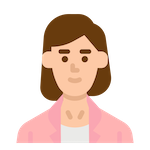
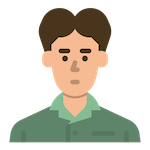
updated

diff --git a/single-mom/index.html b/single-mom/index.html
@@ -26,7 +26,7 @@
 <link href="vendor/magnific-popup/magnific-popup.css" rel="stylesheet">
 
 <!-- Theme CSS - Includes Bootstrap -->
-<link href="css/creative.min.css" rel="stylesheet">
+<link href="css/vitastory.min.css" rel="stylesheet">
 
 <!-- GA -->
 <!-- Global site tag (gtag.js) - Google Analytics -->
@@ -107,6 +107,7 @@
     <div class="row justify-content-center" id="q1">
       <div class="col-lg-8">
         <h3 class="mb-4">Q1：台灣單親家庭的平均月收入是多少？</h3>
+		<p>請點選下面你認為最合適的選項：</p>
         <div class="content list-group" id="list-tab" role="tablist" style="flex-direction:row;">
           <button class="list-group-item list-group-item-action choice" data-toggle="list" href="#ans-1-a" role="tab" aria-controls="home">未滿1萬9,047元</button>
           <button class="list-group-item list-group-item-action choice" data-toggle="list" href="#ans-1-b" role="tab" aria-controls="profile">1萬9,047 元～未滿 3 萬元</button>
@@ -119,7 +120,7 @@
       <div class="col-lg-8">
         <div class="tab-content" id="nav-tabContent">
           <div class="tab-pane fade show active">
-            <p>你選擇的答案是？（請點選上面你認為最合適的答案）</p>
+            <p>  </p>
           </div>
           <div class="tab-pane fade" id="ans-1-a" role="tabpanel" aria-labelledby="ans-1-a">
             <p>你答錯了！根據<a href="https://www.children.org.tw/uploads/images/private/23/files/report_2013_vulneralble_single_families.pdf" target="_blank">兒童福利聯盟統計</a>台灣的單親家庭平均月收入比例大部分落在1萬9,047至3萬元之間。</p>
@@ -155,6 +156,7 @@
     <div class="row justify-content-center" id="q2">
       <div class="col-lg-8">
         <h3 class="mb-4">Q2：你知道單親媽媽在面對收入壓力的同時，找工作時會碰到什麼難題嗎？</h3>
+		 <p>請點選下面你認為最合適的選項：</p>
         <div class="content list-group" id="list-tab-2" role="tablist" style="flex-direction:row;">
           <button class="list-group-item list-group-item-action choice" data-toggle="list" href="#ans-2-a" role="tab" aria-controls="home">高齡／已婚身分導致不錄用</button>
           <button class="list-group-item list-group-item-action choice" data-toggle="list" href="#ans-2-a" role="tab" aria-controls="profile">生育過後重返職場遭上司拒絕</button>
@@ -167,7 +169,7 @@
       <div class="col-lg-8">
         <div class="tab-content" id="nav-tabContent-2">
           <div class="tab-pane fade show active">
-            <p>你選擇的答案是？（請點選上面你認為最合適的答案）</p>
+            <p>  </p>
           </div>
           <div class="tab-pane fade" id="ans-2-a" role="tabpanel" aria-labelledby="ans-2-a">
             <p>答錯囉！上述三個選項的問題都是現今單親家長在職場經常碰到的難題。</p>
@@ -193,6 +195,7 @@
     <div class="row justify-content-center" id="q3">
       <div class="col-lg-8">
         <h3 class="mb-4">Q3：你知道單親家庭的生活品質、居住狀況是如何嗎？</h3>
+		 <p>請點選下面你認為最合適的選項：</p>
         <div class="content list-group" id="list-tab-3" role="tablist" style="flex-direction:row;">
           <button class="list-group-item list-group-item-action choice" data-toggle="list" href="#ans-3-a" role="tab" aria-controls="home">頂樓加蓋</button>
           <button class="list-group-item list-group-item-action choice" data-toggle="list" href="#ans-3-a" role="tab" aria-controls="profile">違章建築</button>
@@ -205,7 +208,7 @@
       <div class="col-lg-8">
         <div class="tab-content" id="nav-tabContent-3">
           <div class="tab-pane fade show active">
-            <p>你選擇的答案是？（請點選上面你認為最合適的答案）</p>
+            <p>  </p>
           </div>
           <div class="tab-pane fade" id="ans-3-a" role="tabpanel" aria-labelledby="ans-3-a">
             <p>答錯了！就目前我們訪談到的個案來說，單親家庭在居住方面投注較多心力，有的單親媽媽在離婚之後選擇回到娘家居住，有的媽媽則是選擇在外租房，為了給孩子較好的成長環境，單親爸爸或媽媽們尤其注重社區安全與環境機能，多半不會離校區太遠，同時希望讓孩子在舒適的環境成長，頂樓加蓋與違章建築較不會列入考慮，雖然租金稍微高了一點，但若能在可負荷的範圍，也要讓孩子有個安穩的家可以回。</p>
@@ -219,6 +222,7 @@
     <div class="row justify-content-center" id="q5">
       <div class="col-lg-8">
         <h3 class="mb-4">Q4：單親媽媽／爸爸會碰上甚麼育兒困難？</h3>
+		 <p>請點選下面你認為最合適的選項：</p>
         <div class="content list-group" id="list-tab-5" role="tablist" style="flex-direction:row;">
           <button class="list-group-item list-group-item-action choice" data-toggle="list" href="#ans-5-a" role="tab" aria-controls="home">一個人須同時擔任「父親」與「母親」角色</button>
           <button class="list-group-item list-group-item-action choice" data-toggle="list" href="#ans-5-a" role="tab" aria-controls="profile">工作時間太長，親子關係疏遠</button>
@@ -231,7 +235,7 @@
       <div class="col-lg-8">
         <div class="tab-content" id="nav-tabContent-5">
           <div class="tab-pane fade show active">
-            <p>你選擇的答案是？（請點選上面你認為最合適的答案）</p>
+            <p>  </p>
           </div>
           <div class="tab-pane fade" id="ans-5-a" role="tabpanel" aria-labelledby="ans-5-a">
             <p>再仔細看看，單親媽媽或爸爸同時會面臨不同困難喔！</p>
@@ -245,6 +249,7 @@
     <div class="row justify-content-center" id="q6">
       <div class="col-lg-8">
         <h3 class="mb-4">Q5：單親婦女會在生活上承受了什麼生活壓力？</h3>
+		<p>請點選下面你認為最合適的選項：</p>
         <div class="content list-group" id="list-tab-6" role="tablist" style="flex-direction:row;">
           <button class="list-group-item list-group-item-action choice" data-toggle="list" href="#ans-6-a" role="tab" aria-controls="home">中國婦女三從四德的社會文化觀</button>
           <button class="list-group-item list-group-item-action choice" data-toggle="list" href="#ans-6-a" role="tab" aria-controls="profile">教養子女方式</button>
@@ -257,7 +262,7 @@
       <div class="col-lg-8">
         <div class="tab-content" id="nav-tabContent-6">
           <div class="tab-pane fade show active">
-            <p>你選擇的答案是？（請點選上面你認為最合適的答案）</p>
+            <p>  </p>
           </div>
           <div class="tab-pane fade" id="ans-6-a" role="tabpanel" aria-labelledby="ans-6-a">
             <p>答對囉！其實上述四個選項都是現今生活裡發生在你我周遭的事件，有些甚至也是我們潛意識裡會有的刻板印象。</p>
@@ -281,6 +286,7 @@
     <div class="row justify-content-center" id="q7">
       <div class="col-lg-8">
         <h3 class="mb-4">Q6：單親的身分在社會上會遭受到什麼不友善的對待？</h3>
+		 <p>請點選下面你認為最合適的選項：</p>
         <div class="content list-group" id="list-tab-7" role="tablist" style="flex-direction:row;">
           <button class="list-group-item list-group-item-action choice" data-toggle="list" href="#ans-7-a" role="tab" aria-controls="home">單親爸爸尋求基金會協助被視為很軟弱</button>
           <button class="list-group-item list-group-item-action choice" data-toggle="list" href="#ans-7-a" role="tab" aria-controls="profile">身分證因沒有爸爸名字被認為有人格缺陷</button>
@@ -293,13 +299,13 @@
       <div class="col-lg-8">
         <div class="tab-content" id="nav-tabContent-7">
           <div class="tab-pane fade show active">
-            <p>你選擇的答案是？（請點選上面你認為最合適的答案）</p>
+            <p>  </p>
           </div>
           <div class="tab-pane fade" id="ans-7-a" role="tabpanel" aria-labelledby="ans-7-a">
             <p>不止這個答案喔！三個選項各有真實的小故事，往下看看吧！</p>
             <p><strong>單親爸爸尋求基金會協助被視為軟弱的行為</strong></p>
             <p>據<a href="https://www.children.org.tw/uploads/images/private/23/files/report_2013_vulneralble_single_families.pdf" target="_blank">兒童福利聯盟</a>，單親爸爸單親媽媽求助比例約為1：6，由此可知單親爸爸向外尋求或使用社會福利資源協助的意願與動機明顯低於單親媽媽。阿貴爸爸為了獨立照顧兩個孩子，前往兒福聯盟承接的向晴家庭福利服務中心尋求幫助，</p>
-            <p>阿貴爸爸說：「不能因為男人性別的關係，而不願請社工協助，為了孩子我們不僅要努力賺錢，也要爭取相關的福利幫忙。」</p>
+            <p>阿沛爸爸與妻子離婚後，負起了獨自照顧女兒的責任。在經濟和與女兒相處不融洽的雙重壓力下，阿沛爸爸最終被憂鬱擊垮，患上了輕度憂鬱症。身邊的親人都很擔心他，並提供一些可以幫助他的社福管道，但阿沛爸爸卻認為自己是個男人，不該懦弱地向外求援，所以不願請社工協助自己。</p>
             <p><strong>為什麼你的身分證沒有爸爸的名字？</strong></p>
             <p>臉專「<a href="https://www.facebook.com/mimiandmom?fref=photo" target="_blank">單親媽媽和她的小孩</a>」分享過曾因單親身分受過的指控：「為什麼你的身分證沒有爸爸的名字？」、「為什麼你跟媽媽姓？」、「警察臨檢時候會酸我，原來你單親沒有地方去阿」、「看見身分證雙親欄位總是莫名心揪」⋯⋯</p>
             <p>單親不是一種快樂的局面，它很大程度可能代表逼不得已，但是單親媽媽付出的愛絕對不會比較少，這個社會卻對她們特別不友善，許多人也因為這樣被貼上標籤，好像單親就代表「問題小孩」，甚至會有更差的聯想：「媽媽八成有什麼問題」</p>
@@ -311,7 +317,7 @@
             <p>答對了！這三個選項各有真實的小故事，往下看看吧！</p>
             <p><strong>單親爸爸尋求基金會協助被視為軟弱的行為</strong></p>
             <p>據<a href="https://www.children.org.tw/uploads/images/private/23/files/report_2013_vulneralble_single_families.pdf" target="_blank">兒童福利聯盟</a>，單親爸爸單親媽媽求助比例約為1：6，由此可知單親爸爸向外尋求或使用社會福利資源協助的意願與動機明顯低於單親媽媽。阿貴爸爸為了獨立照顧兩個孩子，前往兒福聯盟承接的向晴家庭福利服務中心尋求幫助，</p>
-            <p>阿貴爸爸說：「不能因為男人性別的關係，而不願請社工協助，為了孩子我們不僅要努力賺錢，也要爭取相關的福利幫忙。」</p>
+            <p>阿沛爸爸與妻子離婚後，負起了獨自照顧女兒的責任。在經濟和與女兒相處不融洽的雙重壓力下，阿沛爸爸最終被憂鬱擊垮，患上了輕度憂鬱症。身邊的親人都很擔心他，並提供一些可以幫助他的社福管道，但阿沛爸爸卻認為自己是個男人，不該懦弱地向外求援，所以不願請社工協助自己。</p>
             <p><strong>為什麼你的身分證沒有爸爸的名字？</strong></p>
             <p>臉專「<a href="https://www.facebook.com/mimiandmom?fref=photo" target="_blank">單親媽媽和她的小孩</a>」分享過曾因單親身分受過的指控：「為什麼你的身分證沒有爸爸的名字？」、「為什麼你跟媽媽姓？」、「警察臨檢時候會酸我，原來你單親沒有地方去阿」、「看見身分證雙親欄位總是莫名心揪」⋯⋯</p>
             <p>單親不是一種快樂的局面，它很大程度可能代表逼不得已，但是單親媽媽付出的愛絕對不會比較少，這個社會卻對她們特別不友善，許多人也因為這樣被貼上標籤，好像單親就代表「問題小孩」，甚至會有更差的聯想：「媽媽八成有什麼問題」</p>
@@ -353,7 +359,7 @@
           <p class="aboutpeople text-center">小珍媽媽</p>
           </button>
           <button class="list-group-item list-group-item-action choice" data-toggle="list" href="#story-3" role="tab" aria-controls="home"><span class="people" ><img type="contain" src="img/people3.png" alt="" class="pic"></span>
-          <p class="aboutpeople text-center">蔡女士</p>
+          <p class="aboutpeople text-center">阿沛爸爸</p>
           </button>
         </div>
       </div>
@@ -374,15 +380,11 @@
             <p>在社工幫助下，我到了「1950幸福桌子」便當店工作，因為通常下午四點就能夠下班，也多出了更多時間跟孩子聊天，聽他們分享在學校生活的點點滴滴，感情慢慢變好了。</p>
           </div>
           <div class="tab-pane fade" id="story-3" role="tabpanel" aria-labelledby="story-3">
-            <p><strong>外籍配偶：蔡定蓉女士</strong></p>
-            <p>25歲那年，我與大我10歲的丈夫結婚，從越南遠嫁到台灣，丈夫非常疼愛我，夫家也待我不錯，我想，我是最幸福的台灣越南媳婦。</p>
-            <p>和丈夫結婚的第十年，我終於懷了我們的孩子，但一個晴天霹靂的消息也隨之到來——我先生患上了絕症。這個噩耗沖淡了喜悅，不久之後，孩子甚至來不及見到爸爸一面，丈夫便離開了這個世界，從此離開了我。</p>
-            <p>那年讓我非常痛苦，曾經想要與他一起走。但看著身旁尚未足月的孩子，我想，我不能拋下他，孩子是丈夫留給我最後的禮物，就算辛苦，我也要獨自撫養他長大，連同丈夫的份，用加倍的愛陪伴他成長，我對自己發誓，要讓孩子過得比其他人更快樂。</p>
-            <p>為了能讓小孩過上更好的日子，我辭去了原先只能領固定薪資的工作。一開始我換到玫瑰園上班，能做的我盡量做，加班對我來說已是家常便飯，為的就是能填補丈夫的空缺，賺取更多生活費，我想，買給小孩的用品一定要是優質的，所以我得努力工作，把最好的留給孩子。</p>
-            <p>雖然辛苦，但是因為在心中有了羈絆，每當深夜時分，看著孩子熟睡的臉龐與自己佈滿粗繭的雙手，我的心是滿足的，就好像丈夫還在我身邊，一同努力打拚，完整了這個幸福的缺角家庭。</p>
-            <p>隨著孩子越長越大，開銷也變得更多，我決定自己開店做越南料理，讓家鄉味得以延續。雖然這十年來我過得辛苦，得顧店、得養家，但我卻過得很開心，因為先生留了一個很棒的禮物，相框裡來不及完成的全家福照，雖然是心中難以淡去的遺憾，但是因為孩子的陪伴，一切負能量都會消失。</p>
-            <p>丈夫對我來說其實不曾離去，他正以另一個模樣，擁抱著我們母子，偶爾我也會分享我與丈夫的故事給孩子聽，對他來說，這是最動聽的床邊故事，也是屬於我們家，一家三口，最甜蜜的記憶。我知道，我的孩子過得很幸福很快樂。</p>
-            <p class="source">參考來源：《互鄉誌》<a href="https://seacoworkers.wixsite.com/seacoworkersncnu/blank-11"><span style="color: #e6e6e6">《疼我的先生過世後，我發誓讓孩子過得比其他小孩開心》</span></a></p>
+            <p><strong>阿沛爸爸</strong></p>
+            <p>「我從小就被教導男人就是要堅強，不需要別人來幫助我。」</p>
+<p>我是一個單親爸爸，與妻子離婚後，我拒絕拿取前妻任何一毛贍養費，開始一肩擔起家裡的經濟，並獨自撫養正值青春期的女兒。為了賺取更多生活費，我開始沒日沒夜地工作加班，跟女兒的關係變得愈來愈惡劣。她漸漸玩到半夜才回家，心事也只跟媽媽說，我永遠都是被矇在谷底的那一位。</p>
+<p>而正為家庭問題煩惱時，工作上也持續遭受挫折，壓在我身上的重量一天比一天多，我開始變得悲觀、憂鬱，被家人拉去看了醫生才發現我患了輕度憂鬱症。</p>
+<p>但儘管這樣，我認為男人沒有資格示弱，不需要靠社福機構來協助，我相信我能夠靠自己的力量克服。</p>
           </div>
         </div>
       </div>
@@ -452,6 +454,6 @@
 <script src="vendor/magnific-popup/jquery.magnific-popup.min.js"></script> 
 
 <!-- Custom scripts for this template --> 
-<script src="js/creative.min.js"></script>
+<script src="js/vitastory.min.js"></script>
 </body>
 </html>
